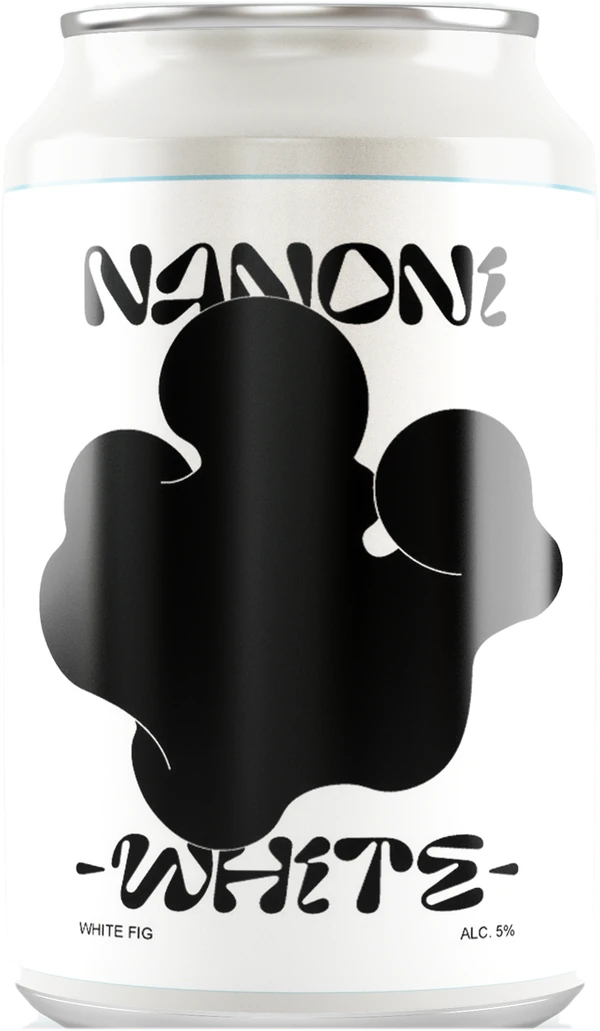
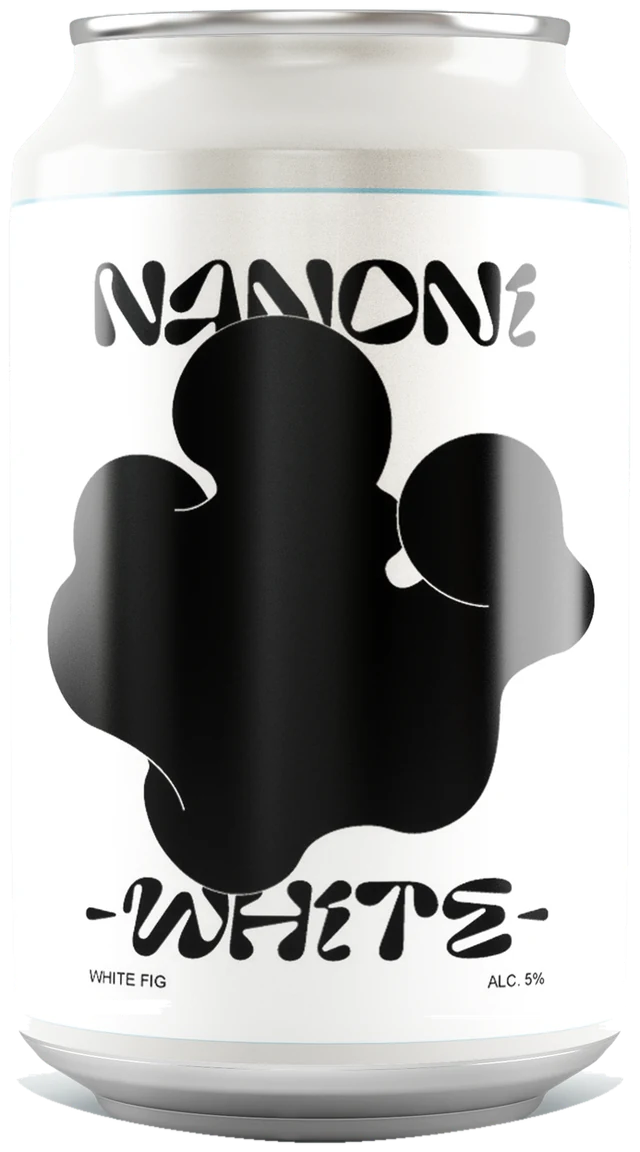
Re-cut the can so its base is intact, and centre it again
Two separate defects, both visible on a phone.

The cutout was cropped through the can itself: the object ran to the
canvas edge on every side, so the base rim and the top rim were simply
missing from the asset. No amount of CSS could fix that. Re-cut from the
original studio shot, separating the can from the shadow it casts on the
table by its own geometry — the body is a cylinder of known radius and
the base is an ellipse fitted to the can/table boundary — then crop with
a margin so nothing touches the edge.

Wrapping the image in <picture> also broke the layout. <picture> is an
inline element, so it became the flex item while `width: min(52%, 11rem)`
sat on the <img> inside it, with no definite containing block to resolve
the percentage against. The can rendered left of centre. Put the width on
the <picture> and let the <img> fill it.

The re-cut also drops the palette quantisation that made the can look
drawn: the WebP is full-colour, and the PNG fallback is now a smaller
full-colour image rather than a 256-colour one at full size.

diff --git a/assets/css/style.css b/assets/css/style.css
@@ -403,18 +403,25 @@ rt {
   gap: 1rem;
 }
 
-/* 缶は背景を抜いた PNG。枠や角丸を付けると板のように浮くので付けない。
-   代わりに輪郭に沿う drop-shadow で接地させる。影が無いと缶の底（ほぼ白）が
-   背景に溶けて、下が見切れているように見える。 */
-.hero-visual img {
+/* 缶は背景を抜いた画像。枠や角丸を付けると板のように浮くので付けず、
+   輪郭に沿う drop-shadow だけで接地させる。
+   幅は <picture> に指定すること。<picture> は inline なので、中の <img> に
+   パーセント幅を書くと基準となる幅が決まらず、中央寄せも効かなくなる。 */
+.hero-visual picture {
+  display: block;
   width: min(100%, 17rem);
+}
+
+.hero-visual img {
+  display: block;
+  width: 100%;
   height: auto;
   filter: drop-shadow(0 0.7rem 0.9rem rgba(0, 0, 0, 0.16));
 }
 
 /* スマホでは 1 カラムになり缶が主役になりすぎるので、ひとまわり小さくする */
 @media (max-width: 62rem) {
-  .hero-visual img { width: min(52%, 11rem); }
+  .hero-visual picture { width: min(52%, 11rem); }
 }
 
 /* 商品画像が用意できるまでの CSS 製プレースホルダー（缶のシルエット） */
@@ -511,11 +518,16 @@ rt {
 }
 
 /* 切り抜いた缶を、サムネイルの中央に置く */
-.product-thumb-photo { padding: 1.5rem 1rem; }
+.product-thumb-photo {
+  display: flex;
+  justify-content: center;
+  padding: 1.5rem 1rem;
+}
+.product-thumb-photo picture { display: block; }
 .product-thumb-photo img {
+  display: block;
   width: auto;
   max-height: 15rem;
-  margin-inline: auto;
   filter: drop-shadow(0 0.5rem 0.7rem rgba(0, 0, 0, 0.14));
 }
 

diff --git a/index.html b/index.html
@@ -88,7 +88,7 @@
         <div class="hero-visual">
           <picture>
             <source srcset="assets/img/nanoni-white.webp" type="image/webp">
-            <img src="assets/img/nanoni-white.png" width="600" height="1031"
+            <img src="assets/img/nanoni-white.png" width="640" height="1152"
                  alt="NANONI -white- の缶。白いラベルに黒い有機的な形と NANONI のロゴ。">
           </picture>
         </div>
@@ -141,7 +141,7 @@
             <div class="product-thumb product-thumb-photo">
               <picture>
                 <source srcset="assets/img/nanoni-white.webp" type="image/webp">
-                <img src="assets/img/nanoni-white.png" width="600" height="1031" loading="lazy"
+                <img src="assets/img/nanoni-white.png" width="640" height="1152" loading="lazy"
                      alt="NANONI -white- の缶。白いラベルに黒い有機的な形と NANONI のロゴ。">
               </picture>
             </div>

diff --git a/products.html b/products.html
@@ -83,7 +83,7 @@
             <div class="product-thumb product-thumb-photo">
               <picture>
                 <source srcset="assets/img/nanoni-white.webp" type="image/webp">
-                <img src="assets/img/nanoni-white.png" width="600" height="1031"
+                <img src="assets/img/nanoni-white.png" width="640" height="1152"
                      alt="NANONI -white- の缶。白いラベルに黒い有機的な形と NANONI のロゴ。">
               </picture>
             </div>
